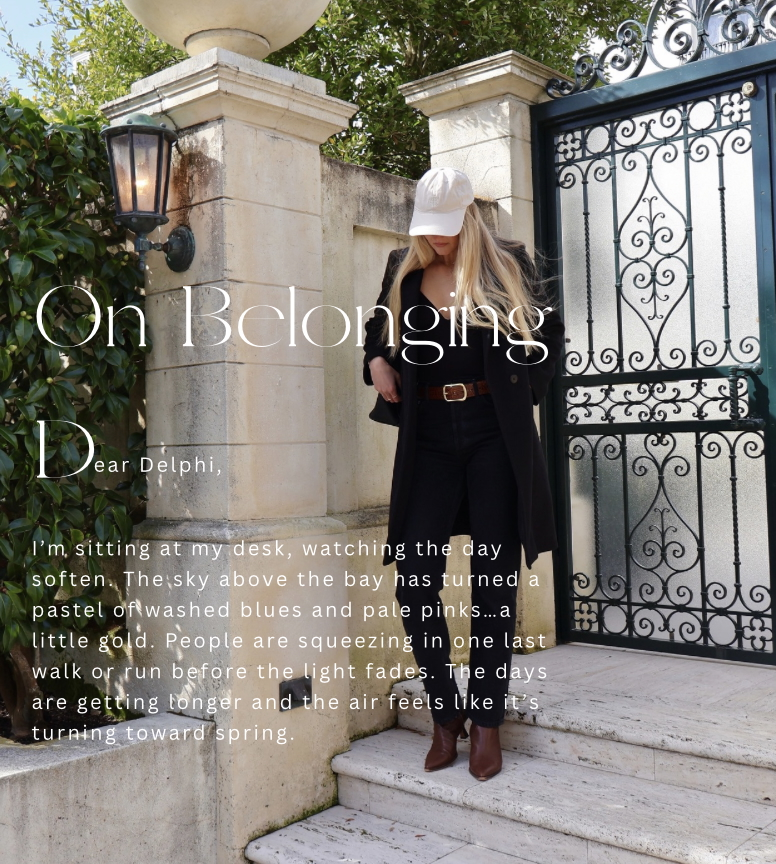
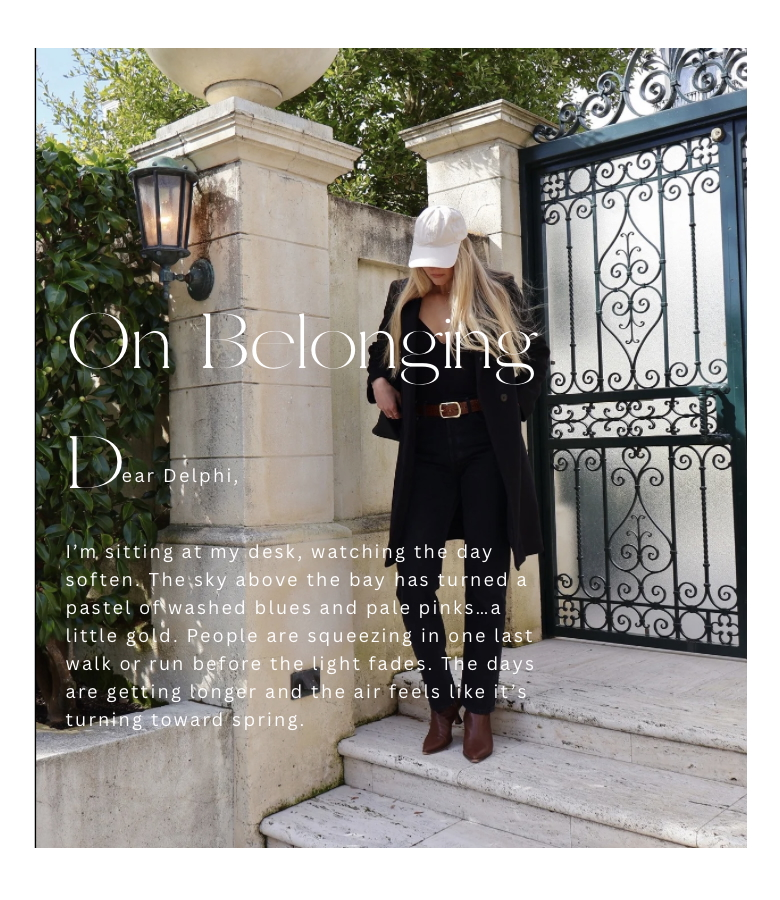
Update header image, fix text typo, refresh carousel images

diff --git a/index.html b/index.html
@@ -140,7 +140,7 @@
       color:#080808;
       padding:80px 20px 52px;
       background:
-        url("images/header111.jpg")
+        url("images/c000.jpg")
         center/cover no-repeat;
     }
     .hero-with-bg h2{
@@ -448,7 +448,7 @@
   <section class="section" id="delphi-editorial">
     <h2>Delphi Editorial</h2>
     <p class="section-subtitle">
-      Essays and interviews on taste, culture, and how to live well in the city. Available exclusively members.
+      Essays and interviews on taste, culture, and how to live well in the city. Available exclusively to members.
     </p>
 
     <div class="editorial-carousel">